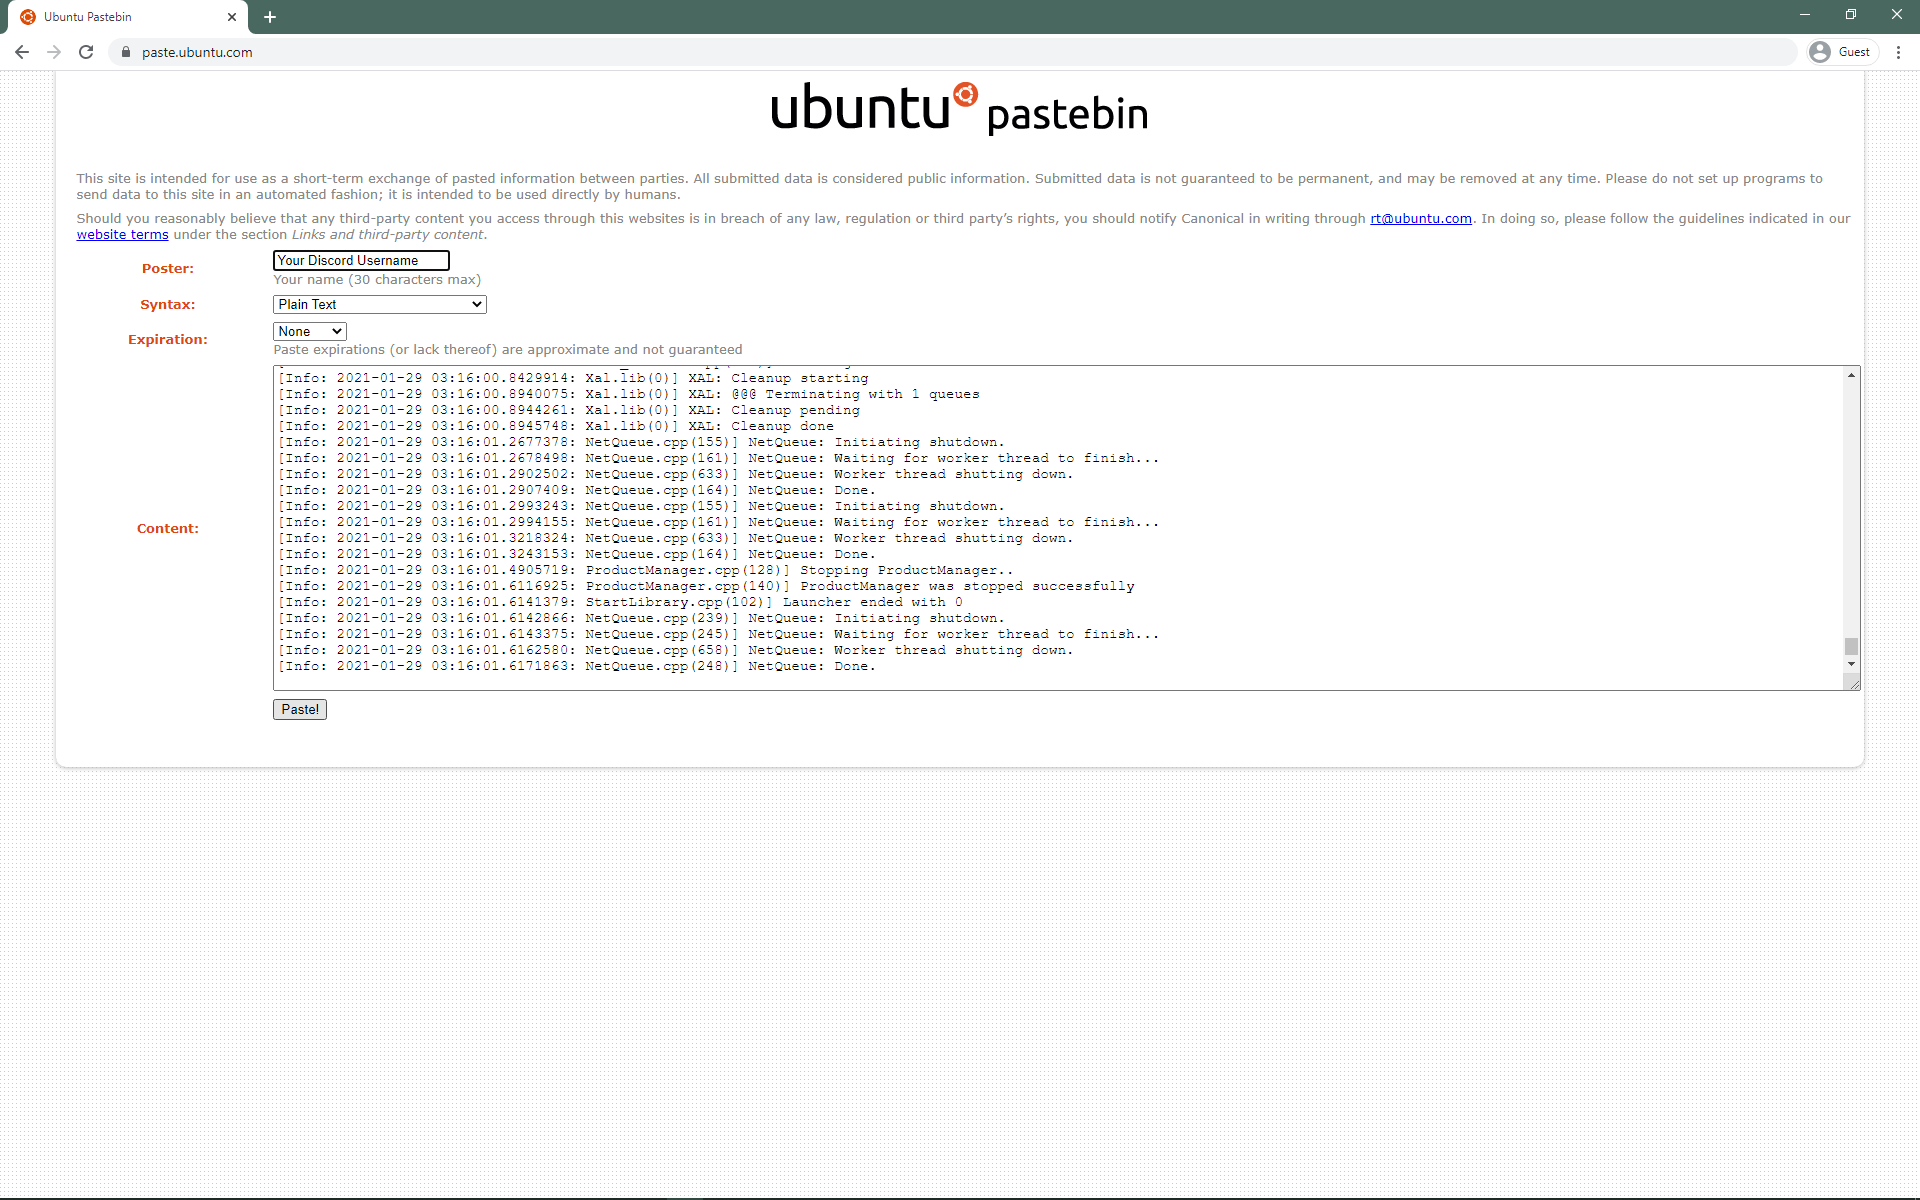
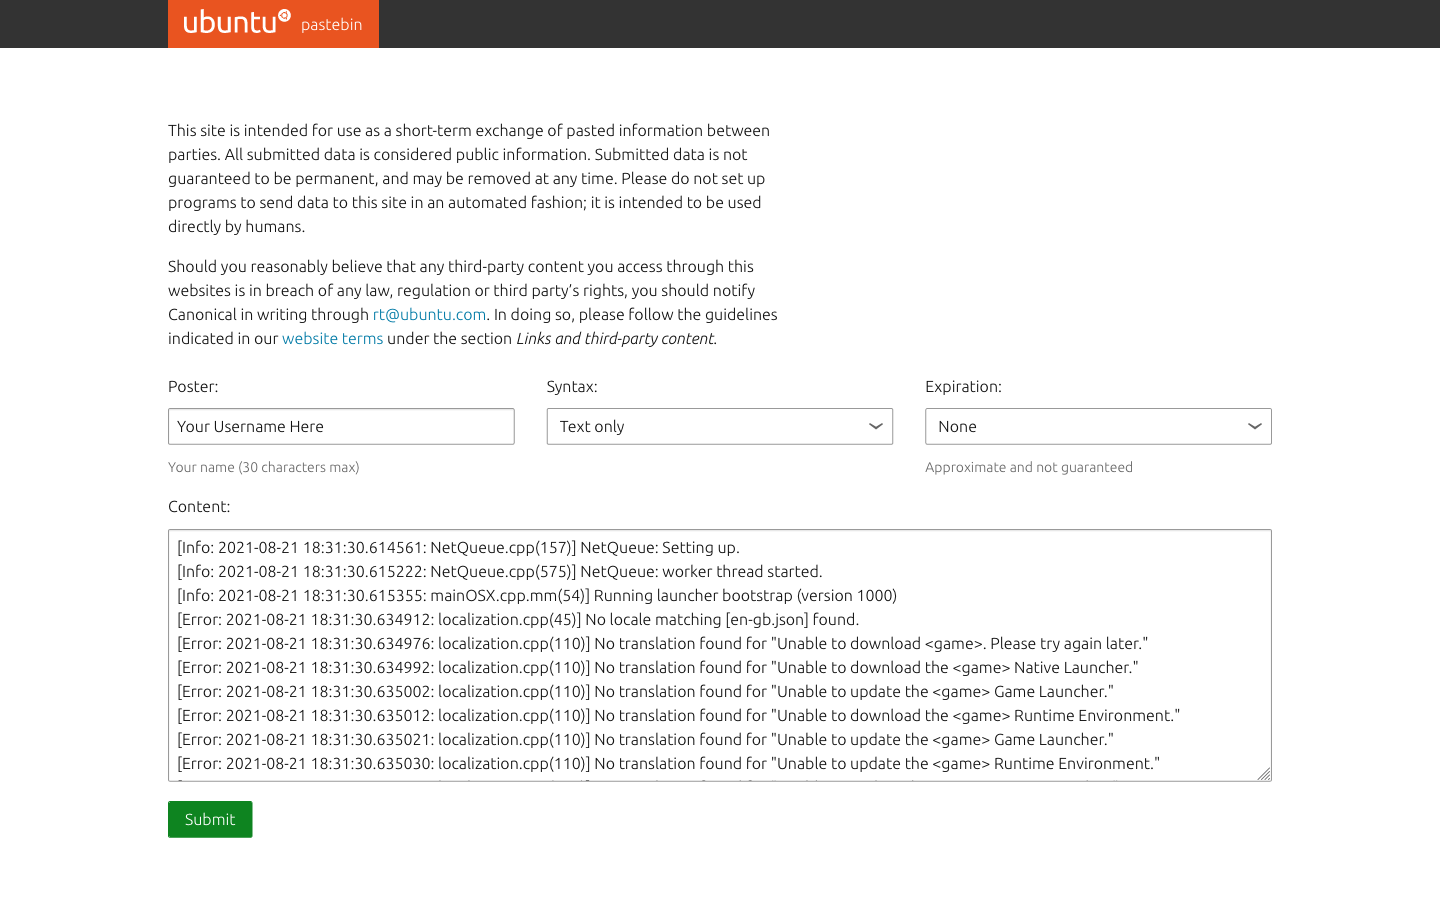
Update Ubuntu Paste screenshots for Launcher logs

diff --git a/_help/guides/getting-minecraft-launcher-log/index.md b/_help/guides/getting-minecraft-launcher-log/index.md
@@ -41,7 +41,7 @@ Select the entire contents (**Ctrl-A** or **Cmd-A**) of the file and copy it (**
 
 #### Step 5
 
-Open (https://paste.ubuntu.com) in your web browser and paste (**Ctrl-V** or **Cmd-V**) the contents into the _'Contents'_ field. Put your Discord username into the _'Poster'_ field. Then click **Paste!**
+Open (https://paste.ubuntu.com) in your web browser and paste (**Ctrl-V** or **Cmd-V**) the contents into the _'Content'_ field. Put your Discord username into the _'Poster'_ field. Then click **Submit**
 ![Ubuntu Pastebin site with contents pasted](/static/images/help/guides/getting-minecraft-launcher-log/ubuntu-launcher_log.png)
 
 #### Step 6
